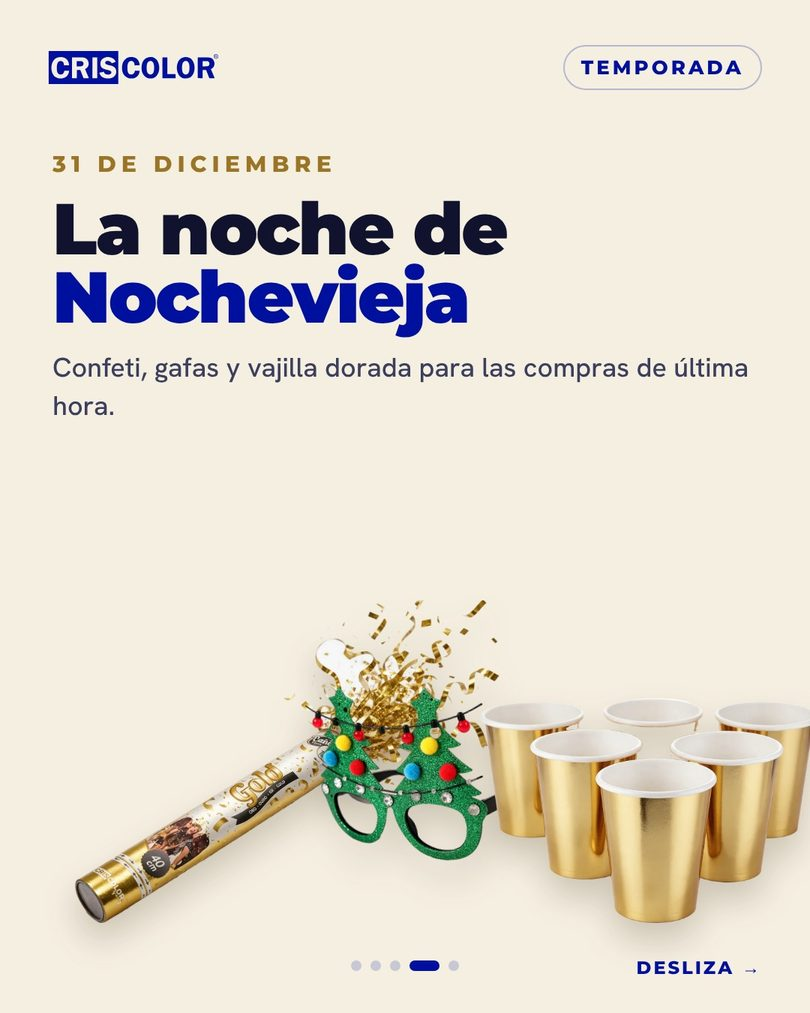
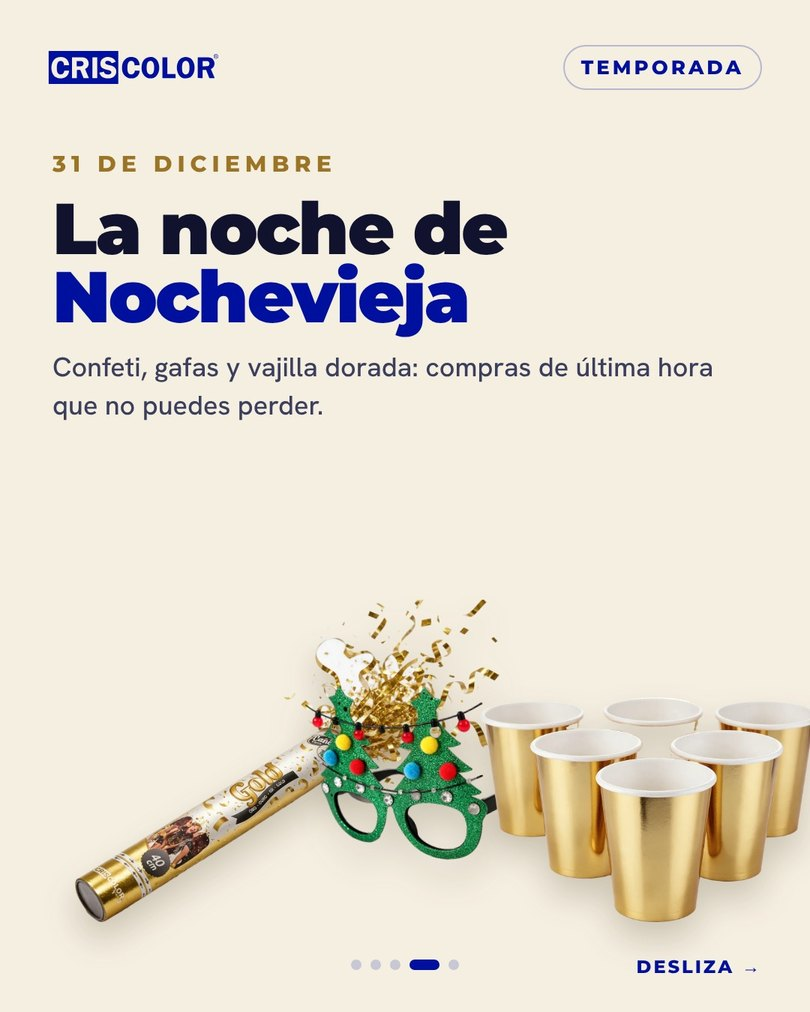
Posts con tono más agresivo (martes y jueves)
Claude-Session: https://claude.ai/code/session_016vX2tAnYJNsb3voomsbycX

Changed region(s): [[0.4938, 0.337, 0.9259, 0.3982], [0.0617, 0.3982, 0.4012, 0.4289]]

diff --git a/data/weeks.js b/data/weeks.js
@@ -1,13 +1,13 @@
 /* Contenido por semanas. Imágenes en /img como <id>-<n>.jpg. Cambiar el id de la semana reinicia sus aprobados. */
 window.WEEKS = [
  {
-  "id": "w45-v3",
+  "id": "w45-v4",
   "label": "Semana 45 · 2–6 nov",
   "title": "Semana del <em>2 al 6</em> de noviembre",
   "items": [
    {
     "id": "s45-lun",
-    "v": 5,
+    "v": 6,
     "type": "story",
     "day": "Lunes",
     "date": "2 nov",
@@ -17,18 +17,18 @@ window.WEEKS = [
    },
    {
     "id": "p45-mar",
-    "v": 5,
+    "v": 6,
     "type": "post",
     "day": "Martes",
     "date": "3 nov",
     "title": "La calefacción que van a pedirte",
     "n": 5,
     "notes": [],
-    "copy": "La calefacción que van a pedirte 🔥\n\nYa llega el frío y tus clientes empiezan a buscar calefactor. Tenlo en tienda antes que nadie:\n\n🛋 Para el salón · calefactores de 2000 W con aire frío, tibio y caliente (Atlas 44884, Andes 44886, Fuji 44890).\n💻 Para el escritorio · cerámicos de mesa con termostato (Everest 44897, Elbrus 44947, Elbrus Plus 44948).\n⚡ Calor al momento · estufas de cuarzo plegables y con asa (Pirineo 44891, Himalaya 44894, Teide 44895).\n\n14 modelos en blanco, negro y gris. 👉 Pide tu calefacción desde el enlace de la bio.\n\n#Criscolor #MayoristaNavidad #Bazares #TiendasDeBarrio #ComercioLocal #Navidad2026 #Calefaccion"
+    "copy": "Sin calefactores, tu cliente se va 🔥\n\nYa llega el frío y tus clientes empiezan a buscar calefactor. Si no lo encuentran en tu tienda, lo compran en la de al lado:\n\n🛋 Para el salón · calefactores de 2000 W con aire frío, tibio y caliente (Atlas 44884, Andes 44886, Fuji 44890).\n💻 Para el escritorio · cerámicos de mesa con termostato (Everest 44897, Elbrus 44947, Elbrus Plus 44948).\n⚡ Calor al momento · estufas de cuarzo plegables y con asa (Pirineo 44891, Himalaya 44894, Teide 44895).\n\n14 modelos en blanco, negro y gris para no perder ni una venta. 👉 Pide tu calefacción ya desde el enlace de la bio.\n\n#Criscolor #MayoristaNavidad #Bazares #TiendasDeBarrio #ComercioLocal #Navidad2026 #Calefaccion"
    },
    {
     "id": "s45-mie",
-    "v": 5,
+    "v": 6,
     "type": "story",
     "day": "Miércoles",
     "date": "4 nov",
@@ -38,18 +38,18 @@ window.WEEKS = [
    },
    {
     "id": "p45-jue",
-    "v": 5,
+    "v": 6,
     "type": "post",
     "day": "Jueves",
     "date": "5 nov",
     "title": "Pide a tiempo, vende más",
     "n": 5,
     "notes": [],
-    "copy": "Pide a tiempo, vende más 📅\n\n❄ Noviembre: primero, la calefacción.\n🎁 Diciembre: papel, bolsas, lazos y cajas.\n🥂 31 de diciembre: confeti, gafas y vajilla dorada.\n👑 Hasta el 6 de enero: globos y papel de Reyes.\n\nQue no te falte nada en el momento clave. 👉 Haz tu pedido desde el enlace de la bio.\n\n#Criscolor #MayoristaNavidad #Bazares #TiendasDeBarrio #ComercioLocal #Navidad2026"
+    "copy": "Pide a tiempo, vende más 📅\n\nQuien pide tarde se queda sin stock en el momento clave. Esto es lo que necesitas y cuándo:\n\n❄ Noviembre: primero, la calefacción.\n🎁 Diciembre: papel, bolsas, lazos y cajas.\n🥂 31 de diciembre: confeti, gafas y vajilla dorada.\n👑 Hasta el 6 de enero: globos y papel de Reyes, 12 días más de ventas.\n\nQue no te pille sin género. 👉 Haz tu pedido hoy desde el enlace de la bio.\n\n#Criscolor #MayoristaNavidad #Bazares #TiendasDeBarrio #ComercioLocal #Navidad2026"
    },
    {
     "id": "s45-vie",
-    "v": 5,
+    "v": 6,
     "type": "story",
     "day": "Viernes",
     "date": "6 nov",

diff --git a/index.html b/index.html
@@ -31,7 +31,7 @@
   </form>
 </div>
 
-<script src="/data/weeks.js?v=7"></script>
+<script src="/data/weeks.js?v=8"></script>
 <script src="/assets/app.js?v=4"></script>
 </body>
 </html>
